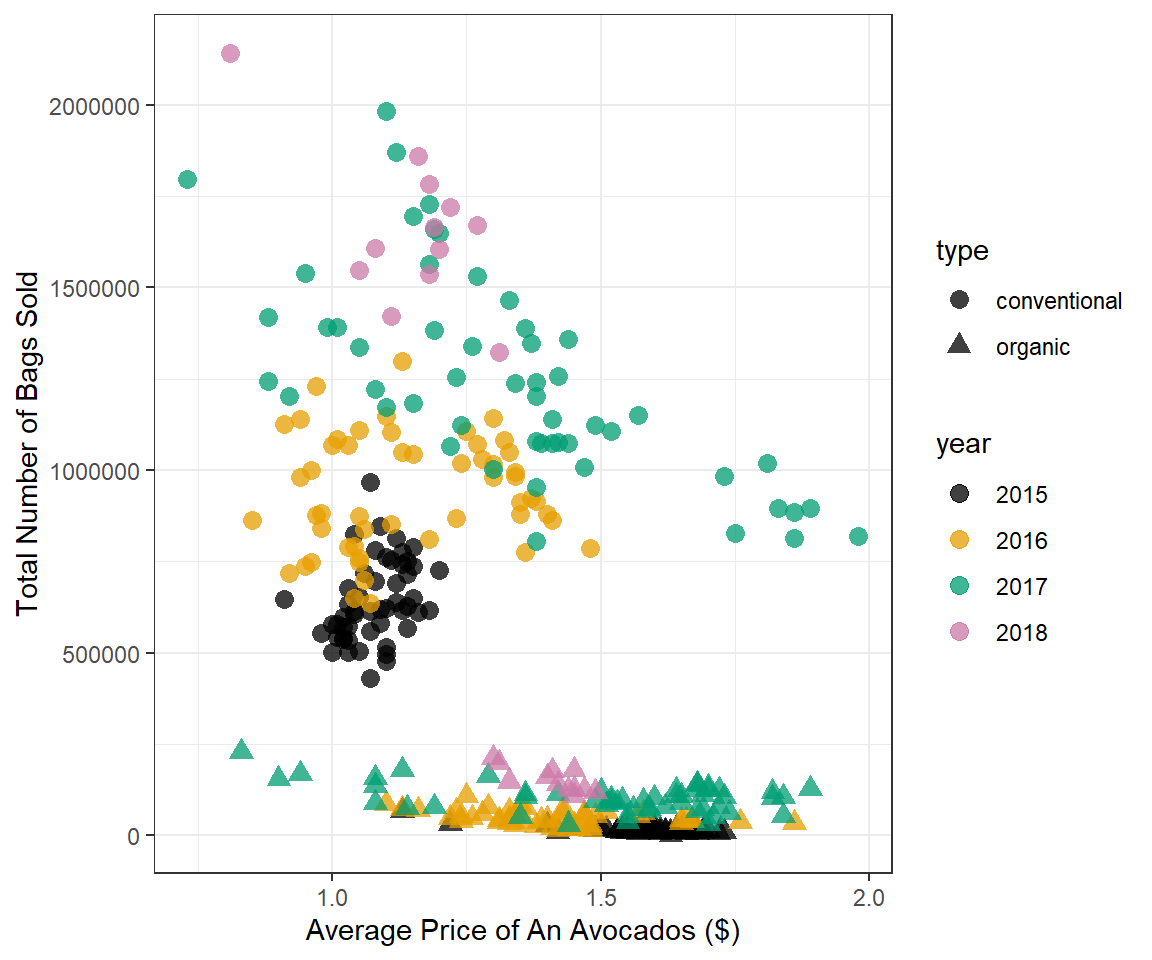
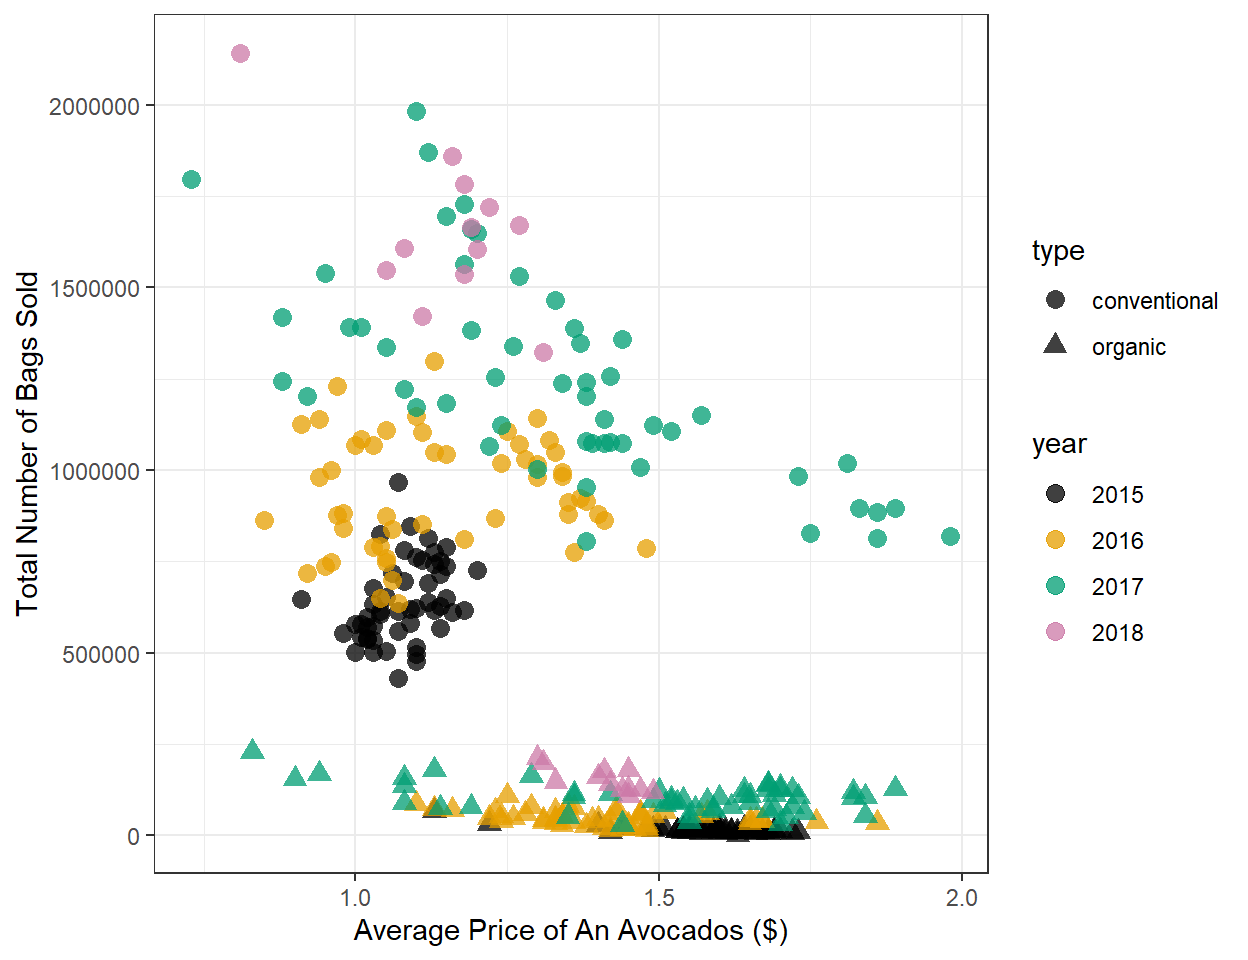
again

diff --git a/modules/Intro/Demo_Avocados.html b/modules/Intro/Demo_Avocados.html
@@ -1,6 +1,6 @@
 ---
 layout: page
-title: Demo - Sales
+title: Demo - Avocados
 author: Derek H. Ogle
 css: "/css/modules.css"
 ---
@@ -23,7 +23,7 @@ str(avoc)</code></pre>
 <div id="example-1" class="section level2">
 <h2>Example 1</h2>
 <p>Construct <code>ggplot2</code> code to match the graph below (as closely as you can).</p>
-<p><img src="Demo_Avocados_files/figure-html/avoc1-1.png" width="576" /></p>
+<p><img src="Demo_Avocados_files/figure-html/avoc1-1.png" width="624" /></p>
 </div>
 <div class="footnotes">
 <hr />
